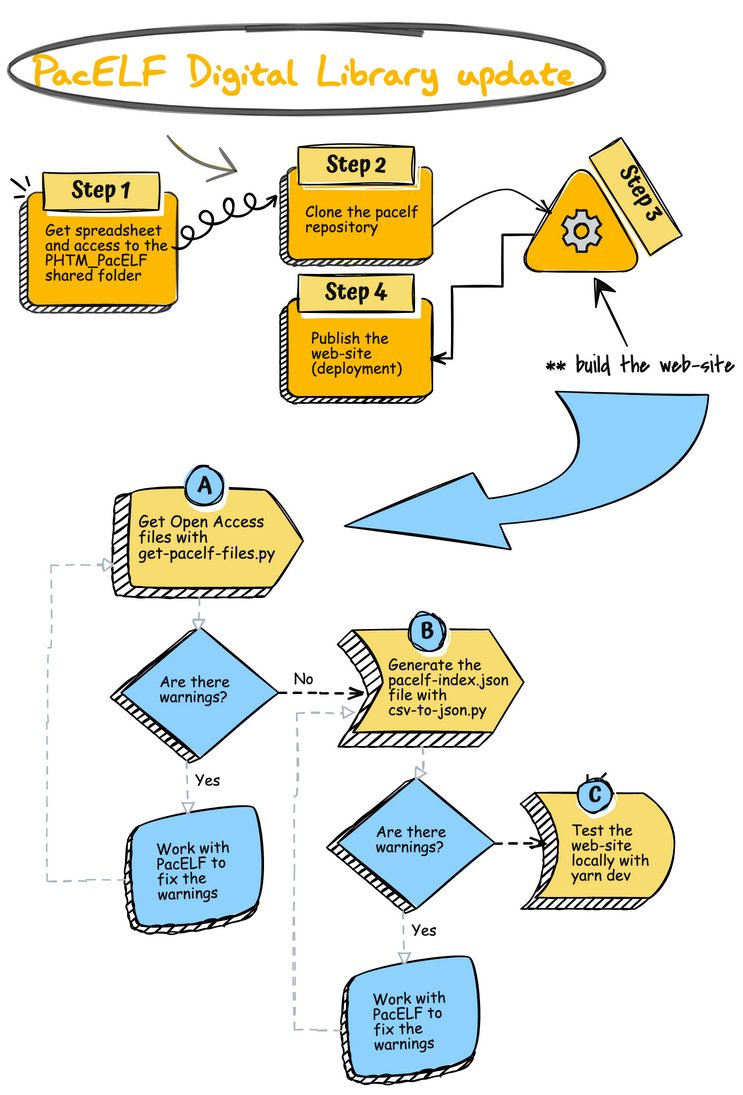
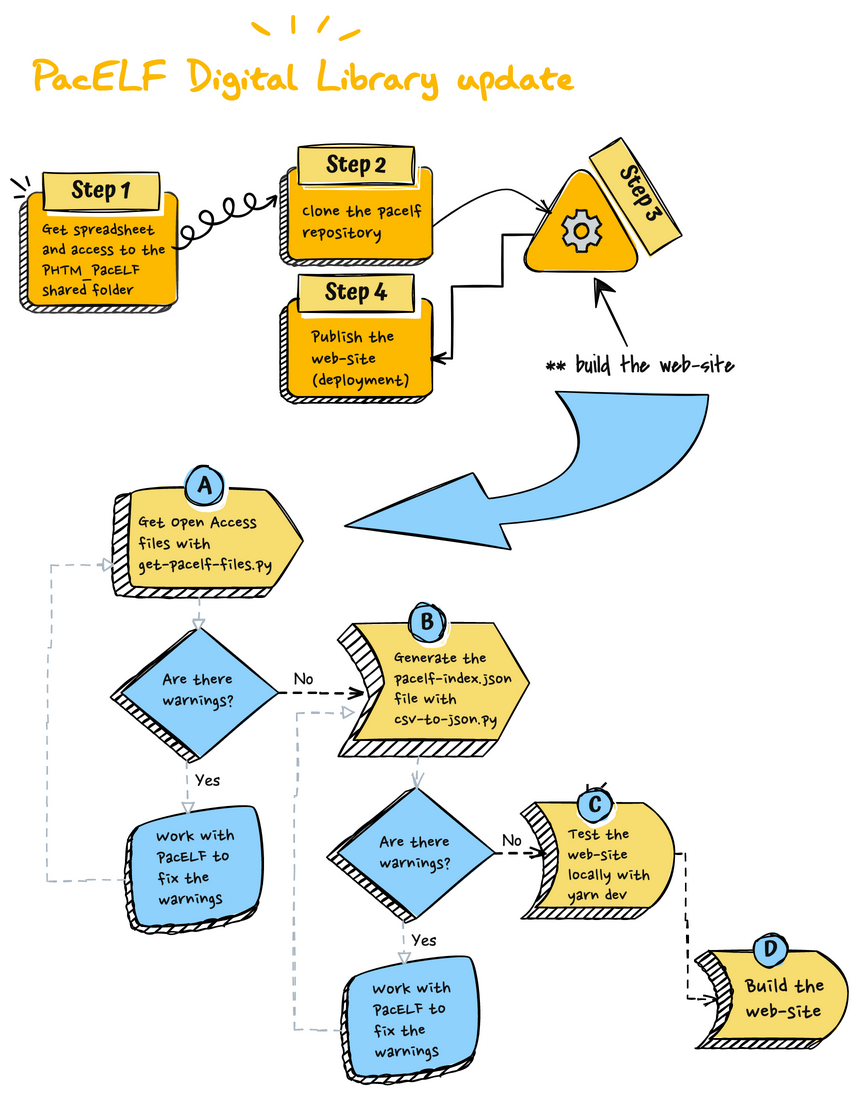
Updating README instructions and Python dependencies information

Changed region(s): [[0.0, 0.0, 0.9906, 0.9936], [0.0619, 0.7763, 0.0929, 0.8073]]

diff --git a/README.md b/README.md
@@ -18,7 +18,23 @@ Note: This website has only been built on a MacOS system.
 
 ![Diagram of the update process](PacELF-update-overview.png)
 
-## Getting the PacELF data
+## Step 1
+Get access to the documents that will be going into the library and the spreadsheet that indexes the documents and contains metadata about them.
+For an example spreadsheet see the files in PacELF_Phase6/rawdata
+
+## Step 2
+Clone the main branch of this repository
+
+## Step 3
+Setup a Python virtual environment, this is needed for 3A and 3B.
+
+```shell
+python3 -m venv .venv
+source .venv/bin/activate
+python -m pip install -r requirements.txt
+```
+
+## Step 3A - Create pacelf-index.csv file and download Open Access files
 
 The PacELF team will send you a spreadsheet and share a folder with you.
 The folder contains various folders and extraneous files. This is why we 
@@ -30,7 +46,7 @@ The only files that we need to copy are the ones in the spreadsheet that have op
 2. Delete the files in the `src/statics/data` folder.
 3. Run the script, `get-pacelf-files.py`. It may take awhile the first time as you will be copying a lot of files. Redirect the output to a log file so that you can review it.
    ```shell
-   python3 get-pacelf-files.py > get-files.log
+   python get-pacelf-files.py > get-files.log
    ```
 4. Review the logfile, `get-files.log`
 5. Work with the PacELF team to resolve any errors in the spreadsheet.
@@ -38,7 +54,7 @@ The only files that we need to copy are the ones in the spreadsheet that have op
    - it may be OK for a file with Open access rights to have no filename, see the behaviour of the next script.
 6. Repeat until there are no more warnings that need to be dealt with.
 
-## Create information for Libary search functionality
+## Step 3B - Generate the pacelf-index.json file
 
 This script will run through the `pacelf-index.csv` file and if the 
 access rights are:
@@ -57,7 +73,7 @@ Meanwhile it is building the `pacelf-index.json` file that the website needs to 
 
 1. Run the script `csv-to-json.py`. Redirect the output to a log file so that you can review the warnings.
    ```shell
-   python3 csv-to-json.py > csv-to-json.log
+   python csv-to-json.py > csv-to-json.log
    ```
 2. Review the logfile, `csv-to-json.log`
 3. Work with the PacELF team to resolve any errors in the spreadsheet.
@@ -65,7 +81,7 @@ Meanwhile it is building the `pacelf-index.json` file that the website needs to 
 
 Note: This script assumes that the open access files are already in the `src/statics/data` folder.
 
-## Testing the website
+## Step 3C - Test the website in dev mode
 
 ### First time
 
@@ -82,15 +98,15 @@ To open up a browser window with the PacELF Digital Library website running in i
 yarn dev
 ```
 
-### Building and running the website locally
+## Step 3D - Build the website
 
-To build the app for production, run the following:
+To build the app for deployment, run the following:
 
 ```shell
 yarn build
 ```
 
-To test this build, run:
+### To test the build
 
 ```shell
 yarn start
@@ -99,7 +115,7 @@ yarn start
 Open <http://localhost:4000/> in your browser.
 
 
-## Deployment
+## Step 4 Publish/Deploy
 Assumes that you have built the website in the main branch of the repository.
 
 1. Clone the gh-pages branch of the repository
